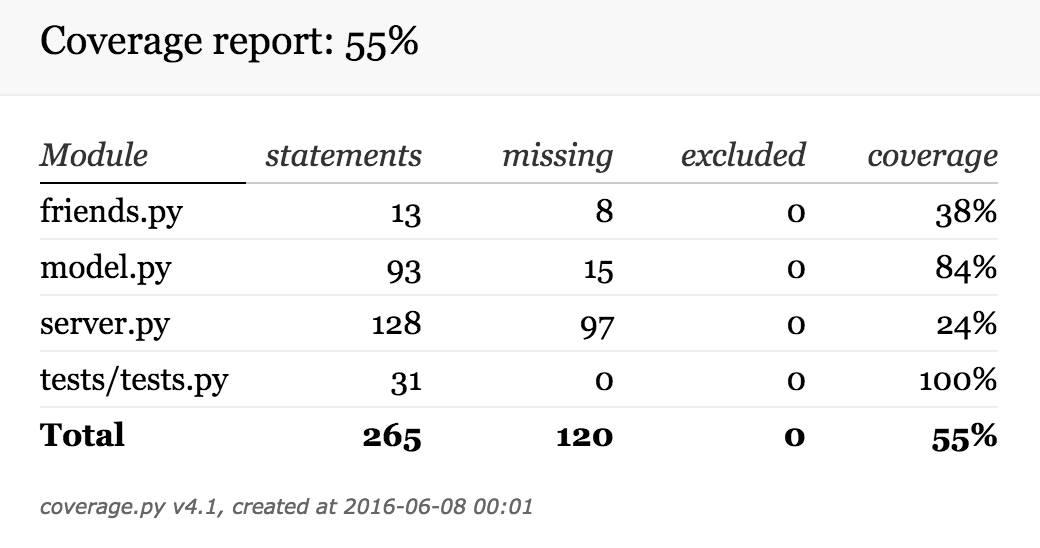
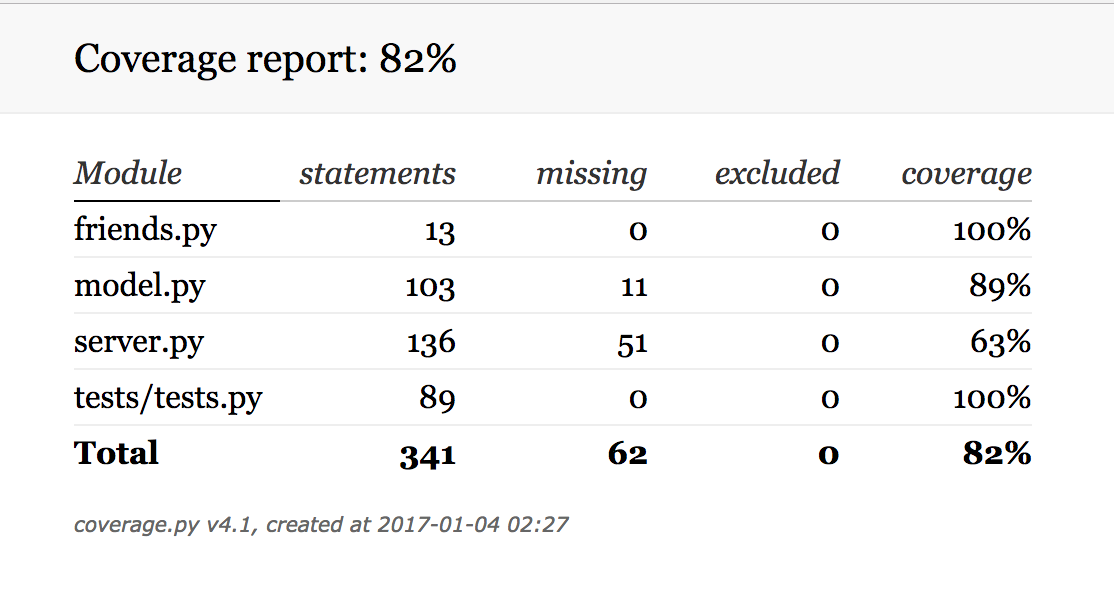
Update with new coverage report

diff --git a/README.md b/README.md
@@ -86,7 +86,7 @@ Add /bin directory to your path to use PostgreSQL commands and install the Pytho
 
 Use Sublime to edit `~/.bash_profile` or `~/.profile`, and add:
 
-```export PATH=/Applications/Postgres.app/Contents/Versions/9.5/bin/:$PATH``` 
+```export PATH=/Applications/Postgres.app/Contents/Versions/9.5/bin/:$PATH```
 
 ### Set up Breadcrumbs:
 
@@ -124,9 +124,8 @@ Finally, to run the app, start the server:
 Go to `localhost:5000` in your browser to start using Breadcrumbs!
 
 ## <a name="testing"></a>Testing & Coverage
-UnitTests and IntegrationTests have been implemented.
-
-Currently the coverage is 55%.
+IntegrationTests have been implemented, with the coverage currently at 82%.
+Further tests still need to be added, as the sample data needs to include connections and restaurant visits.
 
 <img align="center" src="/static/img/screenshots/testing-coverage.png" width="500">
 
